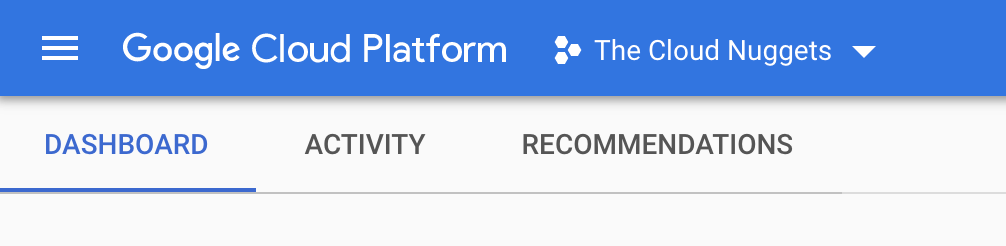
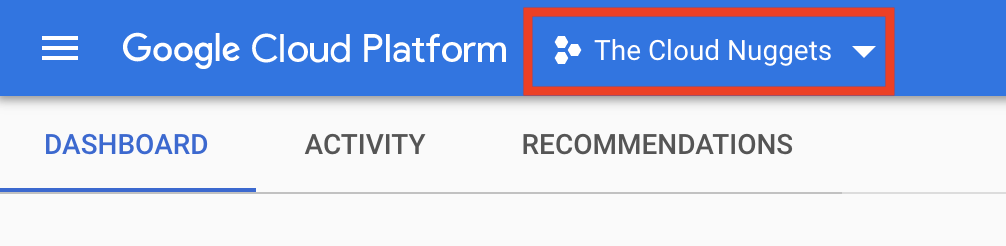
Deploy Slurm from market place is completed

Changed region(s): [[0.493, 0.0285, 0.8936, 0.3984]]

diff --git a/README.md b/README.md
@@ -1,6 +1,6 @@
 # Deploy an Auto-Scaling HPC Cluster with Slurm on Google Cloud Platform using Marketplace
 
-This tutorial shows how to deploy a auto-scaling Slurm cluster on Google Cloud Platform using Marketplace. 
+This tutorial shows how to deploy an auto-scaling Slurm cluster on Google Cloud Platform using Marketplace. 
 
 ## About Slurm
 
@@ -38,9 +38,91 @@ Basic architectural diagram of a stand-alone Slurm Cluster in Google Cloud. Ref:
 </ul>
 
 <br>
+
 ## Deploying the Slurm Cluster using Marketplace
 
-From the dropdown select the project where you want to deploy the Slurm Cluster
+1. From the dropdown select the project where you want to deploy the Slurm Cluster. 
+<br>
 
-![Select the project](/assets/images/1.png)
-<img src="/assets/images/1.png" alt="Select the project"  width="800" height="200" />
+![SchedMD-Slurm-GCP](/assets/images/1.png)
+
+<br>
+2. From the Navigation menu click on the Marketplace.
+
+![SchedMD-Slurm-GCP](/assets/images/2.png)
+
+<br>
+3. In the search for **SchedMD-Slurm-GCP**.
+<br><br>
+
+![SchedMD-Slurm-GCP](/assets/images/3.png)
+
+<br>
+4. From the search you will see the below result. 
+<br><br>
+
+![SchedMD-Slurm-GCP](/assets/images/4.png)
+
+<br>
+5. Click on the **Schedmd-Slurm-GCP** from the result and Click **Launch**. 
+<br><br>
+
+![SchedMD-Slurm-GCP](/assets/images/5.png)
+
+<br>
+6. Some of the options provide defaults, others require input. 
+
+<ul>
+<li>Enter the Deployment name, Cluster name.</li>
+<li>Select the Zone and Network interface where Slurm Cluster has to deployed.</li>
+</ul>
+<br>
+
+![SchedMD-Slurm-GCP](/assets/images/6.png)
+
+<br>
+7. Configure Slurm Controller: 
+<ul>
+<li>Under Machine family section, Choose the <strong>Machine family</strong> as required.</li>
+<li>Choose the <strong>Machine type</strong> as required.</li>
+<li>Click on <strong>MORE</strong> and then Choose the <strong>Boot Disk Type</strong> and <strong>Size</strong> required. </li>
+</ul>
+
+![SchedMD-Slurm-GCP](/assets/images/7.png)
+
+<br>
+8. Configure Slurm Login:
+<ul>
+<li>Click on SHOW SLUM LOGIN OPTIONS</li>
+<li>Under Machine family section, Choose the <strong>Machine family</strong> as required.</li>
+<li>Choose the <strong>Machine type</strong> as required.</li>
+<li>Choose the <strong>Boot Disk Type</strong> and <strong>Size</strong> required. </li>
+</ul>
+
+![SchedMD-Slurm-GCP](/assets/images/8.png)
+
+<br>
+9. Configure Slurm Compute Partition:
+<ul>
+<li>Enter the <strong>Name</strong> of the partition 1.</li>
+<li>Set the <strong>Maximum Instance Count</strong>.</li>
+<li>Set the <strong>Number of Static nodes to create</strong> initially.</li>
+<li>Under Machine family section, Choose the <strong>COMPUTE-OPTIMISED</strong> Tab. Strongly recommend choosing a <strong>compute-optimized instances</strong>. 
+<li>Choose the <strong>Machine type</strong> as required.</li>
+<li>Click on <strong>MORE</strong> and then Choose the <strong>Boot Disk Type</strong> and <strong>Size</strong> required. </li>
+</ul>
+
+> To learn why compute optimized instances, read [Use compute-optimized instances](https://cloud.google.com/solutions/best-practices-for-using-mpi-on-compute-engine#use_compute-optimized_instances).
+
+![SchedMD-Slurm-GCP](/assets/images/9.png)
+
+<br>
+10. Adding additional Partition
+<ul>
+<li>By default, one partition is enabled. Check the box “Enable partition” under the “Slurm Compute Partition” sections to configure more partitions.</li>
+</ul>
+
+![SchedMD-Slurm-GCP](/assets/images/10.png)
+
+<br>
+11. <strong> When complete, click “Deploy”. </strong>
